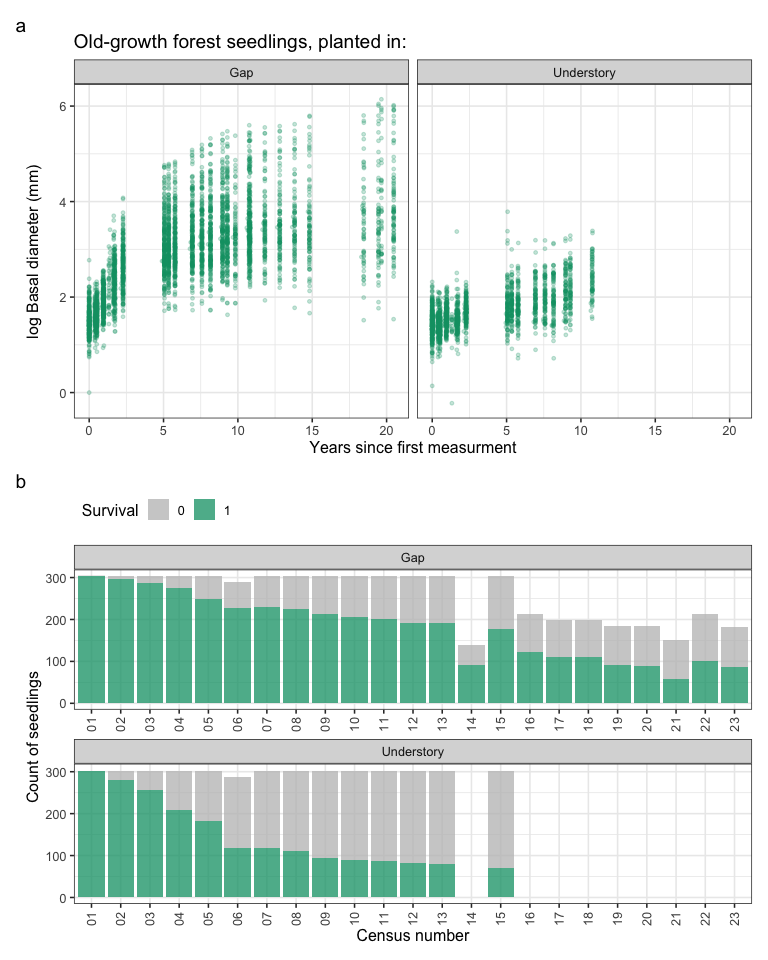
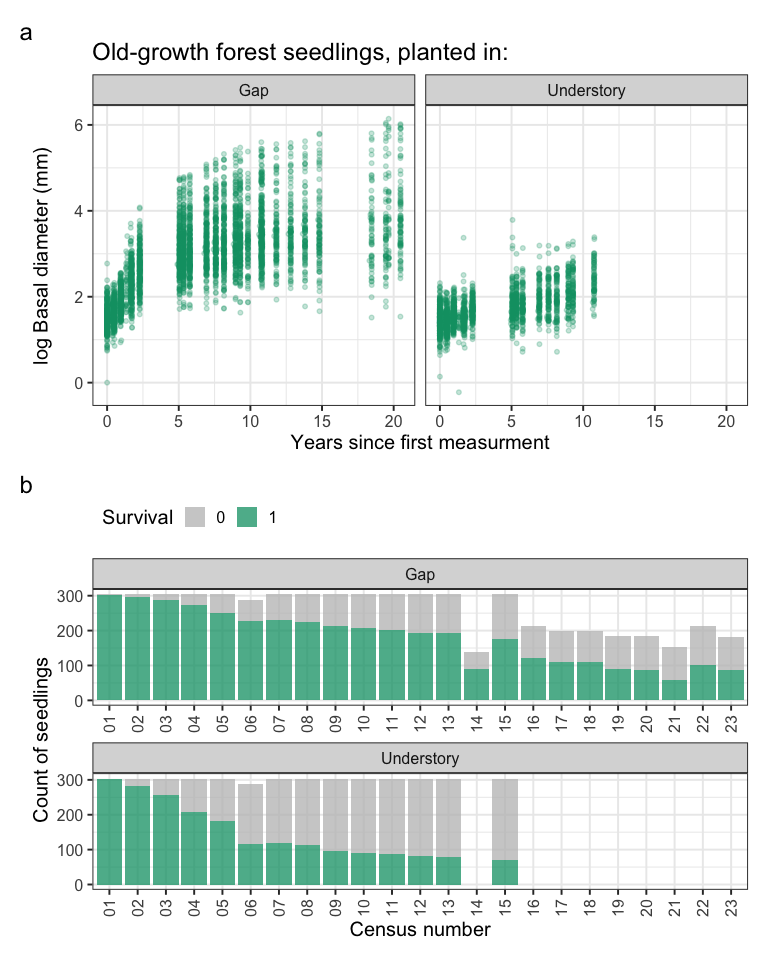
Increase base_size

diff --git a/code/notebooks/2026-11-12_gap-v-understory.md b/code/notebooks/2026-11-12_gap-v-understory.md
@@ -1,6 +1,6 @@
 # Performance of understory vs gap seedlings in the old-growth forest
 
-12 November, 2026
+13 November, 2026
 
 - [Survival](#survival)
 - [Growth](#growth)
